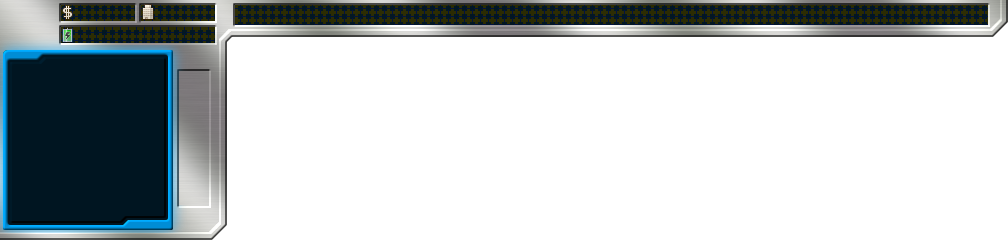
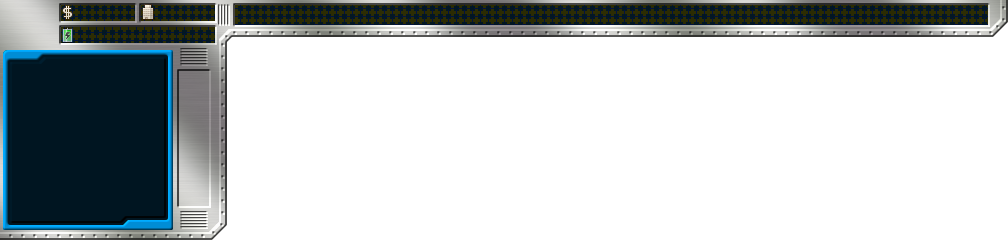
Level Panel improved

diff --git a/trunk/controltheland/src/main/java/com/btxtech/game/jsre/client/cockpit/LevelPanel.java b/trunk/controltheland/src/main/java/com/btxtech/game/jsre/client/cockpit/LevelPanel.java
@@ -4,7 +4,6 @@ import com.btxtech.game.jsre.client.Connection;
 import com.btxtech.game.jsre.client.ImageHandler;
 import com.btxtech.game.jsre.client.common.LevelScope;
 import com.btxtech.game.jsre.common.CmsUtil;
-import com.google.gwt.core.client.Scheduler;
 import com.google.gwt.dom.client.Style;
 import com.google.gwt.event.dom.client.ClickEvent;
 import com.google.gwt.event.dom.client.ClickHandler;
@@ -19,25 +18,35 @@ import com.google.gwt.user.client.ui.Label;
  * Time: 01:14:40
  */
 public class LevelPanel extends AbsolutePanel {
-    private static final int WEIGHT = 30;
-    private static final int HEIGHT = 30;
-    private static final int BLINK_DELAY = 500;
-    private static final String BACKGROUND_COLOR = "#FFFF00";
+    private static final int WEIGHT = 48;
+    private static final int HEIGHT = 48;
     private Label levelName;
     private boolean isBlinking = false;
+    private Image blinkImage;
+    private Image normalImage;
 
     public LevelPanel() {
         setPixelSize(WEIGHT, HEIGHT);
         setTitle(ToolTips.TOOL_TIP_LEVEL);
-        Image image = ImageHandler.getIcon16("medal");
-        add(image, 2, 2);
         levelName = new Label("?");
-        add(levelName, 20, 2);
+        levelName.getElement().getStyle().setProperty("textAlign", "center");
+        levelName.getElement().getStyle().setFontWeight(Style.FontWeight.BOLD);
+        levelName.getElement().getStyle().setFontSize(20, Style.Unit.PX);
+        levelName.getElement().getStyle().setFontSize(20, Style.Unit.PX);
+        levelName.getElement().getStyle().setZIndex(2);
+        levelName.getElement().getStyle().setColor("Maroon");
+        levelName.setWidth("100%");
+        add(levelName, 0, 10);
+        blinkImage = ImageHandler.getCockpitImage("levelAnimated.gif");
+        blinkImage.getElement().getStyle().setZIndex(1);
+        add(blinkImage, 0, 0);
+        normalImage = ImageHandler.getCockpitImage("level.jpg");
+        normalImage.getElement().getStyle().setZIndex(1);
+        add(normalImage, 0, 0);
         addDomHandler(new ClickHandler() {
             @Override
             public void onClick(ClickEvent event) {
-                isBlinking = false;
-                getElement().getStyle().clearBackgroundColor();
+                stopBlink();
                 Window.open(Connection.getInstance().getGameInfo().getPredefinedUrls().get(CmsUtil.CmsPredefinedPage.USER_PAGE), CmsUtil.TARGET_BLANK, "");
             }
         }, ClickEvent.getType());
@@ -54,17 +63,20 @@ public class LevelPanel extends AbsolutePanel {
     }
 
     private void startBlink() {
+        if (isBlinking) {
+            return;
+        }
+        blinkImage.setVisible(true);
+        normalImage.setVisible(false);
         isBlinking = true;
-        Scheduler.get().scheduleFixedPeriod(new Scheduler.RepeatingCommand() {
-            @Override
-            public boolean execute() {
-                if (isBlinking && (getElement().getStyle().getBackgroundColor() == null || getElement().getStyle().getBackgroundColor().trim().isEmpty())) {
-                    getElement().getStyle().setBackgroundColor(BACKGROUND_COLOR);
-                } else {
-                    getElement().getStyle().clearBackgroundColor();
-                }
-                return isBlinking;
-            }
-        }, BLINK_DELAY);
+    }
+
+    private void stopBlink() {
+        if (!isBlinking) {
+            return;
+        }
+        blinkImage.setVisible(false);
+        normalImage.setVisible(true);
+        isBlinking = false;
     }
 }

diff --git a/trunk/controltheland/src/main/java/com/btxtech/game/jsre/client/cockpit/SideCockpit.java b/trunk/controltheland/src/main/java/com/btxtech/game/jsre/client/cockpit/SideCockpit.java
@@ -4,6 +4,7 @@ import com.btxtech.game.jsre.client.ClientBase;
 import com.btxtech.game.jsre.client.ExtendedCustomButton;
 import com.btxtech.game.jsre.client.Game;
 import com.btxtech.game.jsre.client.GwtCommon;
+import com.btxtech.game.jsre.client.ImageHandler;
 import com.btxtech.game.jsre.client.SoundHandler;
 import com.btxtech.game.jsre.client.WebBrowserCustomButton;
 import com.btxtech.game.jsre.client.cockpit.item.ItemCockpit;
@@ -42,8 +43,8 @@ public class SideCockpit {
     private static final int MISSION_PANEL_W = 789;
     private static final int MISSION_PANEL_H = 42;
     // Level
-    private static final int LEVEL_X = 5;
-    private static final int LEVEL_Y = 5;
+    private static final int LEVEL_X = 6;
+    private static final int LEVEL_Y = 1;
     // Money
     private static final int MONEY_X = 75;
     private static final int MONEY_Y = 4;
@@ -120,7 +121,7 @@ public class SideCockpit {
         mainPanel.setPixelSize(MAIN_PANEL_W, MAIN_PANEL_H);
 
         missionPanel = new AbsolutePanel();
-        missionPanel.getElement().getStyle().setBackgroundImage("url(/images/cockpit/cockpit.png)");
+        missionPanel.getElement().getStyle().setBackgroundImage("url(" + ImageHandler.getCockpitImageUrl("cockpit.png") + ")");
         missionPanel.getElement().getStyle().setProperty("backgroundPosition", "-" + Integer.toString(MISSION_PANEL_X) + "px 0");
         preventEvents(missionPanel);
         missionPanel.setPixelSize(MISSION_PANEL_W, MISSION_PANEL_H);

diff --git a/trunk/controltheland/src/main/java/com/btxtech/game/jsre/client/ImageHandler.java b/trunk/controltheland/src/main/java/com/btxtech/game/jsre/client/ImageHandler.java
@@ -42,8 +42,8 @@ public class ImageHandler {
     public static final String EXPLOSION = "effects";
     public static final String ICONS = "icons";
     public static final String TIPS = "tips";
-
-    public static final String BTN_IMAGE_PATH = "/images/cockpit/";
+    public static final String COCKPIT = "/" + IMAGES + "/cockpit/";
+    public static final String BTN_IMAGE_PATH = COCKPIT;
     public static final String BTN_UP_IMAGE = "-up.png";
     public static final String BTN_DOWN_IMAGE = "-down.png";
     public static final String SPLASH_IMAGE_PREFIX = "/images/splash/";
@@ -224,6 +224,14 @@ public class ImageHandler {
         Element div = DOM.createDiv();
         DOM.setInnerHTML(div, "<span style=\"display:inline-block;width:" + width + "px;height:" + height + "px;filter:progid:DXImageTransform.Microsoft.AlphaImageLoader(src='" + url + "', sizingMethod='scale')\"></span>");
         return DOM.getFirstChild(div);
+    }
+
+    public static String getCockpitImageUrl(String image) {
+        return COCKPIT + image;
+    }
+
+    public static Image getCockpitImage(String image) {
+        return new Image(getCockpitImageUrl(image));
     }
 
     /**
